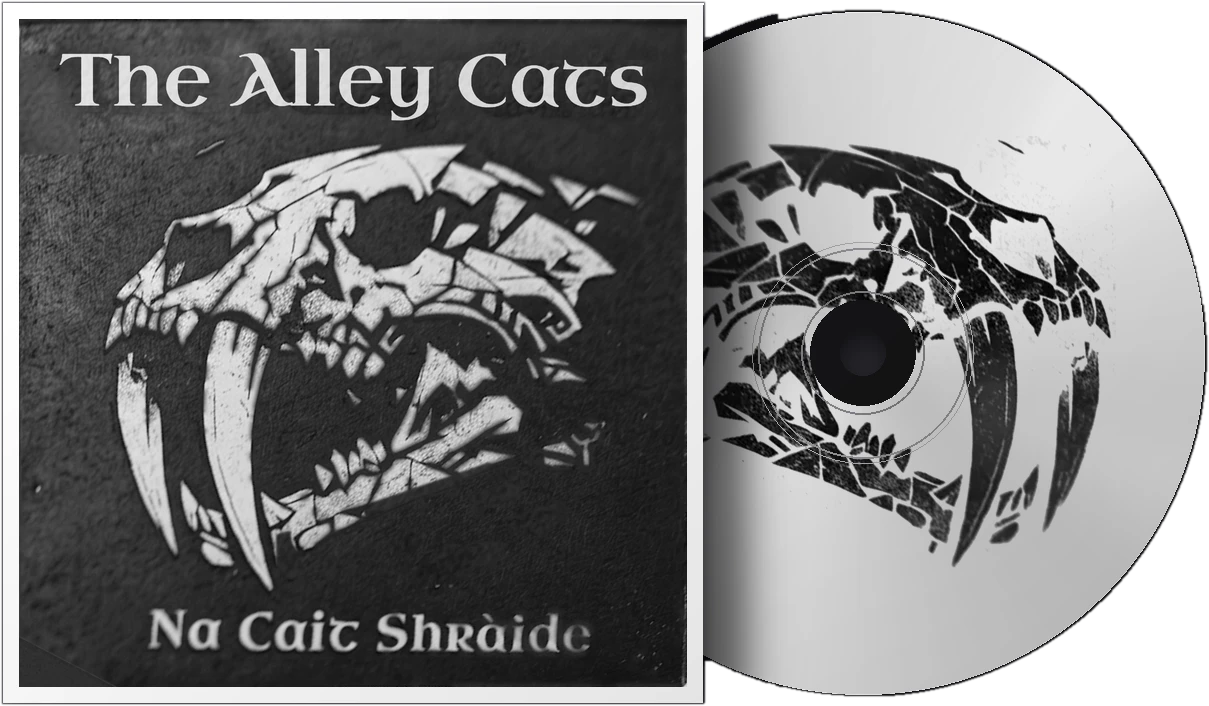
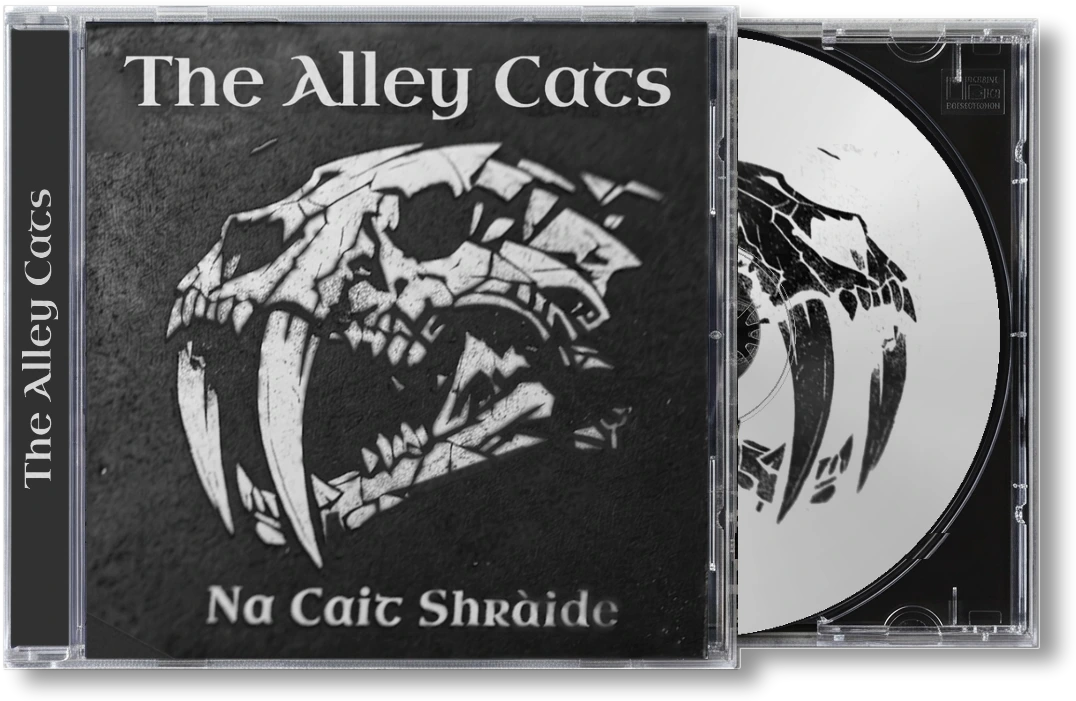
bad cable cd

diff --git a/alley-cats.html b/alley-cats.html
@@ -64,7 +64,11 @@
         <div class="bands bands-solo">
           <div class="band band-cd" id="the-alekats">
             <h3 class="sr-only">The Alley Cats</h3>
-            <div class="cd-box"><a class="pick cd-pick cd-link" href="https://thealleycat.xyz" target="_blank" rel="noopener" aria-label="The Alley Cats, Na Cait Shr&agrave;ide: open the album page"><img src="images/alley-cats-cd.webp" alt="The Alley Cats album cover, Na Cait Shr&agrave;ide: a cracked sabre-toothed skull in white on black, with the CD sliding out of the sleeve" width="706" height="1209"></a></div>
+            <div class="cd-box"><a class="pick cd-pick cd-link" href="https://thealleycat.xyz" target="_blank" rel="noopener" aria-label="The Alley Cats, Na Cait Shr&agrave;ide: open the album page"><img src="images/alley-cats-cd.webp" alt="The Alley Cats album cover, Na Cait Shr&agrave;ide: a cracked sabre-toothed skull in white on black, with the CD sliding out of the sleeve" width="1076" height="701"></a></div>
+          </div>
+          <div class="band band-cd" id="bad-cable">
+            <h3 class="sr-only">Bad Cable</h3>
+            <div class="cd-box"><a class="pick cd-pick cd-link" href="https://soundcloud.com/badcable" target="_blank" rel="noopener" aria-label="Bad Cable: listen on SoundCloud"><img src="images/bad-cable-cd.webp" alt="Bad Cable CD in a jewel case: white distressed lettering over power lines against a dusky sky, with the disc listing Misfit Drifter and Under Mars" width="1076" height="701"></a></div>
           </div>
         </div>
       </section>

diff --git a/style.css b/style.css
@@ -2226,3 +2226,14 @@ body:not(.home) .brand .brand-lino.brand-imprint { opacity: 1 !important; filter
 
 /* LATEST 138: home page without the hero image for now */
 .home-empty { min-height: calc(100dvh - 9rem); }
+
+/* LATEST 139: Music II shows two albums (Alley Cats + Bad Cable): side by side on desktop, stacked on phone */
+.bands-solo { display: grid !important; grid-template-columns: repeat(2, minmax(0, 1fr)); gap: 2rem clamp(1rem, 3vw, 3rem); align-items: center; }
+.bands-solo .cd-box { width: 100% !important; max-width: 40rem; }
+@media (max-width: 44rem) {
+  .bands-solo { grid-template-columns: 1fr !important; gap: 2.2rem !important; }
+  .bands-solo .cd-box { width: min(92vw, 30rem) !important; }
+  .misc:has(.band-cd) { min-height: 0; padding-bottom: 4rem; }
+}
+.misc:has(.band-cd) .misc-grid { max-width: 96rem !important; width: 100%; grid-template-columns: 1fr !important; }
+.misc:has(.band-cd) .misc-block { padding-inline: clamp(1rem, 4vw, 4rem); }
